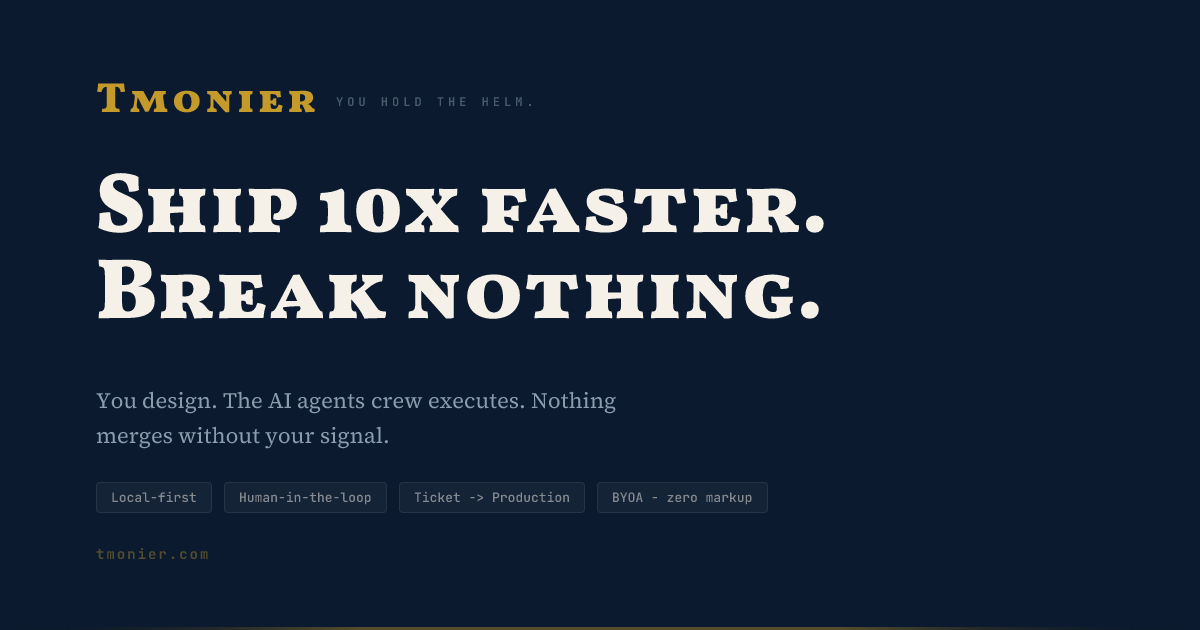
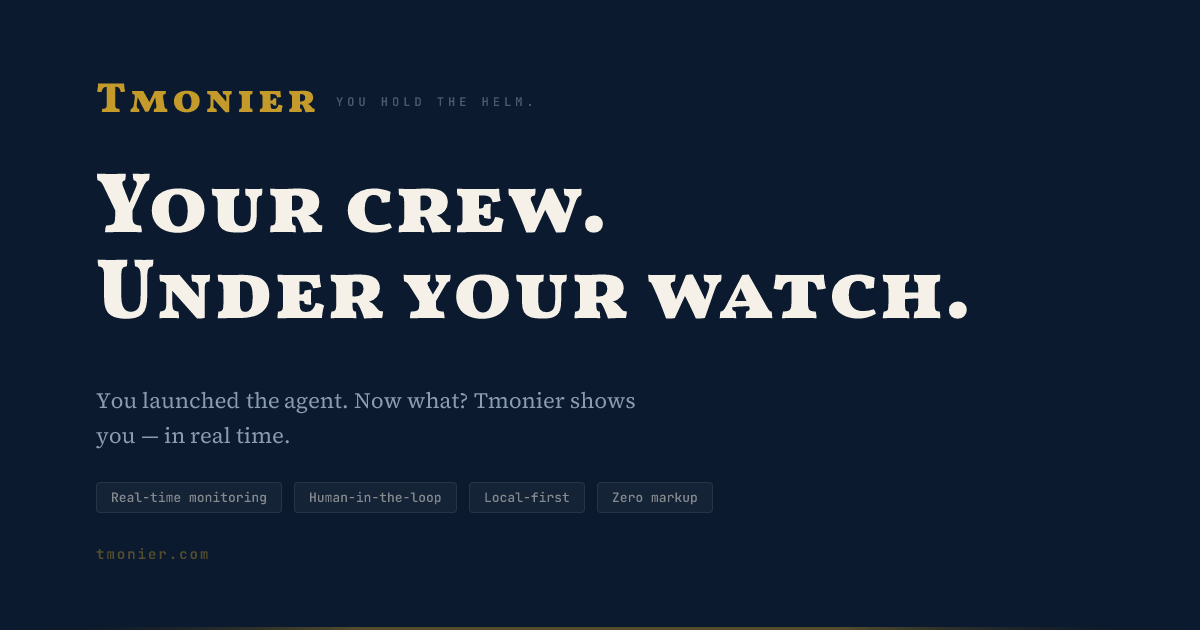
wip

diff --git a/packages/landing/src/pages/og-image.png.ts b/packages/landing/src/pages/og-image.png.ts
@@ -240,7 +240,7 @@ function buildTree(): VNode {
               color: CREAM,
               lineHeight: 1.0,
             },
-            children: 'Ship 10x faster.',
+            children: 'Your crew.',
           }),
           h('div', {
             style: {
@@ -250,7 +250,7 @@ function buildTree(): VNode {
               color: CREAM,
               lineHeight: 1.0,
             },
-            children: 'Break nothing.',
+            children: 'Under your watch.',
           }),
         ],
       }),
@@ -265,16 +265,16 @@ function buildTree(): VNode {
           maxWidth: '560px',
           marginBottom: '48px',
         },
-        children: 'You design. The AI agents crew executes. Nothing merges without your signal.',
+        children: 'You launched the agent. Now what? Tmonier shows you — in real time.',
       }),
       // Pills
       h('div', {
         style: { display: 'flex', gap: '12px', flexWrap: 'wrap' },
         children: [
-          'Local-first',
+          'Real-time monitoring',
           'Human-in-the-loop',
-          'Spec → Production',
-          'BYOA — zero markup',
+          'Local-first',
+          'Zero markup',
         ].map(pill),
       }),
       // URL
